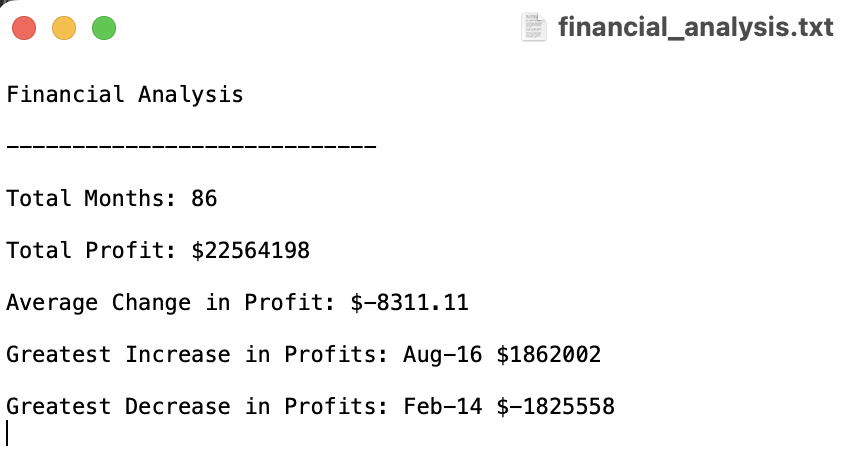
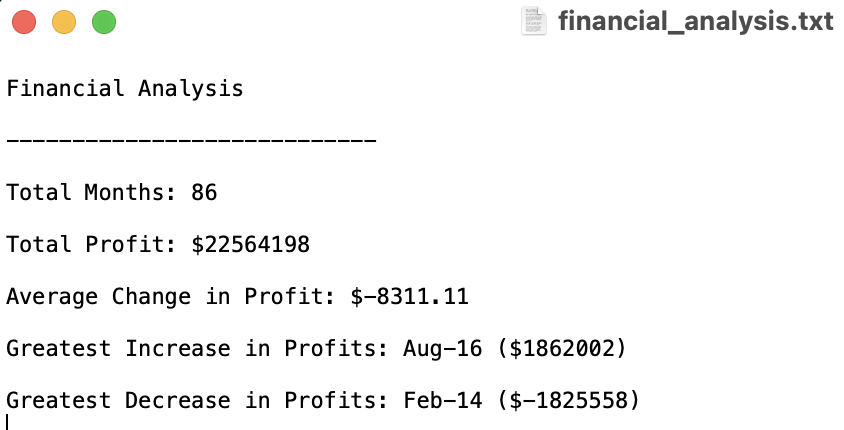
Add more details and update screenshots to README.md file

diff --git a/PyBank/main.py b/PyBank/main.py
@@ -93,8 +93,8 @@ financial_analysis = ["\nFinancial Analysis",
                     f"Total Months: {month_count}",
                     f"Total Profit: ${total_profit}",
                     f"Average Change in Profit: ${avg_profit_change}",
-                    f"Greatest Increase in Profits: {','.join([x for x in max_profit_dates])} ${max_profit}",
-                    f"Greatest Decrease in Profits: {','.join([x for x in min_profit_dates])} ${min_profit}\n"]
+                    f"Greatest Increase in Profits: {','.join([x for x in max_profit_dates])} (${max_profit})",
+                    f"Greatest Decrease in Profits: {','.join([x for x in min_profit_dates])} (${min_profit})\n"]
 
 ## PRINT IN TERMINAL
 # Print financial analysis data in terminal

diff --git a/PyPoll/main.py b/PyPoll/main.py
@@ -64,7 +64,8 @@ with open(csvpath,'r') as file:
 
 
 ## DATA ANALYSIS
-# List comprehension to store voting percentage of each candidate in vote_percent list
+
+# List comprehension to calculate and store voting percentage for each candidate in vote_percent list
 vote_percent = [round((vote/total_votes*100),2) for vote in candidate_votes]
 
 # Set winning vote counter = 0

diff --git a/README.md b/README.md
@@ -9,10 +9,13 @@
 
 <p>
 For the PyBank portion of the assignment, I wrote a Python script that analyzes the financial records in the provided budget_data.csv file. This script successfully reads through the file and calculates the total number of months, net total amount of "Profits/Losses", changes in "Profit/Losses" and average of those changes, greatest increase in profits (date/amount), and greatest decrease in profits (date/amount) over the entire period. This script prints the financial analysis to the terminal and also exports the same analysis to a new text file. 
+
+See below for screenshots of the terminal output and exported text file summary.
+
 </p>
 
 <p>
-In order to complete this script, I used the csv module to read and write file contents, the os module to specify their file paths, and demonstrated my knowledge of variables, lists/list comprehensions, dictionaries/dictionary comprehensions, print statements, detailed commenting, and general Python syntax. I learned how to write a dictionary comprehension while researching how to update values in a dictionary and streamlined my code. I initially calculated the max and min values by running a for loop within the csvreader loop to update max and min values if necessary. I realized I had mistakenly thought of "Profit/Losses" as the changes themselves, and had to go back to calculate the differences by making a new list. I then realized that I could use the max() and min() functions on that list to return my correct max_profit and min_profit values.
+In order to complete this script, I used the csv module to read and write file contents, the os module to specify their file paths, and demonstrated my knowledge of variables, lists/list comprehensions, dictionaries/dictionary comprehensions, print statements, detailed commenting, and general Python syntax. I learned how to write a dictionary comprehension while researching how to update values in a dictionary and streamlined my code. I initially calculated the max and min values by running a for loop within the csvreader loop to update max and min values if necessary. I realized I had mistakenly thought of "Profit/Losses" as the changes themselves, and had to go back to calculate the differences by making a new list. I then realized that I could use the max() and min() functions on that list to return my correct max_profit and min_profit values much more succinctly.
 
 </p>
 
@@ -31,15 +34,14 @@ In order to complete this script, I used the csv module to read and write file c
 
 <p>
 
-For the PyPoll portion of the assignment, I wrote a Python script that analyzes the data in the provided election_data.csv file. This script successfully counts the total votes, number/percent of votes for each individual candidate, and determines the winner by popular votes. The election results are printed to the terminal and exported to a new text file.
+For the PyPoll portion of the assignment, I wrote a Python script that analyzes the data in the provided election_data.csv file. This script successfully counts the total votes, number/percent of votes for each individual candidate, and determines the winner by popular votes. The election results are printed to the terminal and exported to a new text file. 
 
 </p>
 
 <p>
+In order to complete this script I used many of the same skills as in the PyBank portion. I could have used a dictionary again to more easily store candidate names along with their corresponding vote count values, but I decided to try something different for this portion. I needed to use the 'for loop' method of finding the winning number of votes since I needed to know the index in order to name and store the associated winning candidate. It was then very simple to write a list comprehension to create a list of vote percents for each candidate. I considered using the zip() function to combine them all into a single list, but since all I had to do at that point was print them, it was simpler to call the same index from each separate list for my final results. I also considered writing additional code to account for the case of a tie, in which case I would use an if/else statement to check if there were multiple max vote counts, and if so, print an alternate version of the results listing all candidates who tied. I opted not to add this code since I completed the requirements for the assignment but I am confident I would be able to accomplish this fairly easily. 
 
-
-
-
+See below for screenshots of the terminal output and exported text file results.
 
 </p>
 
